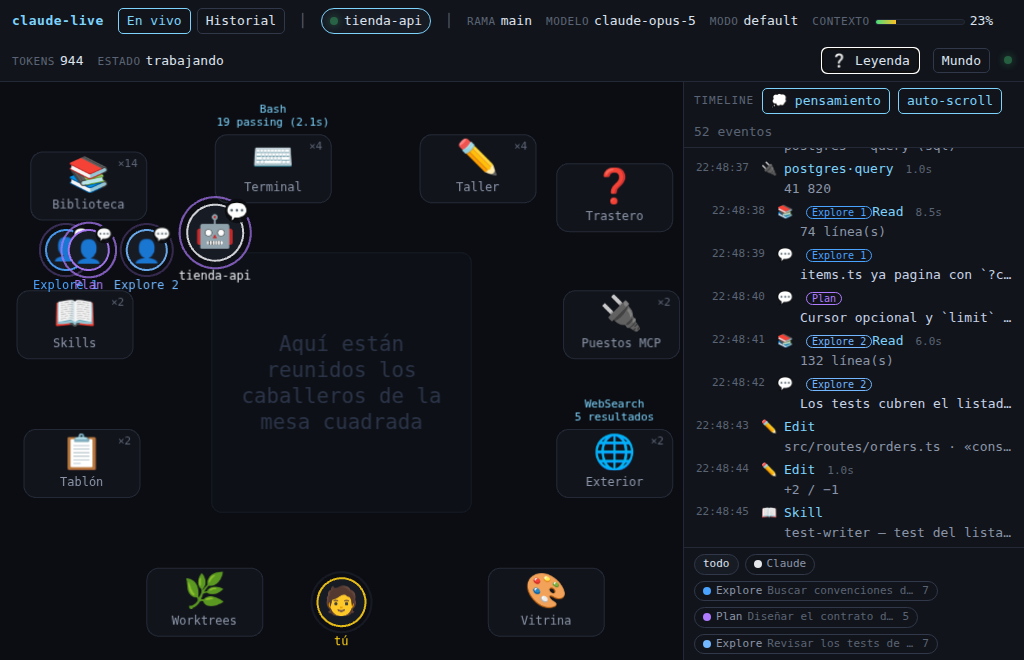
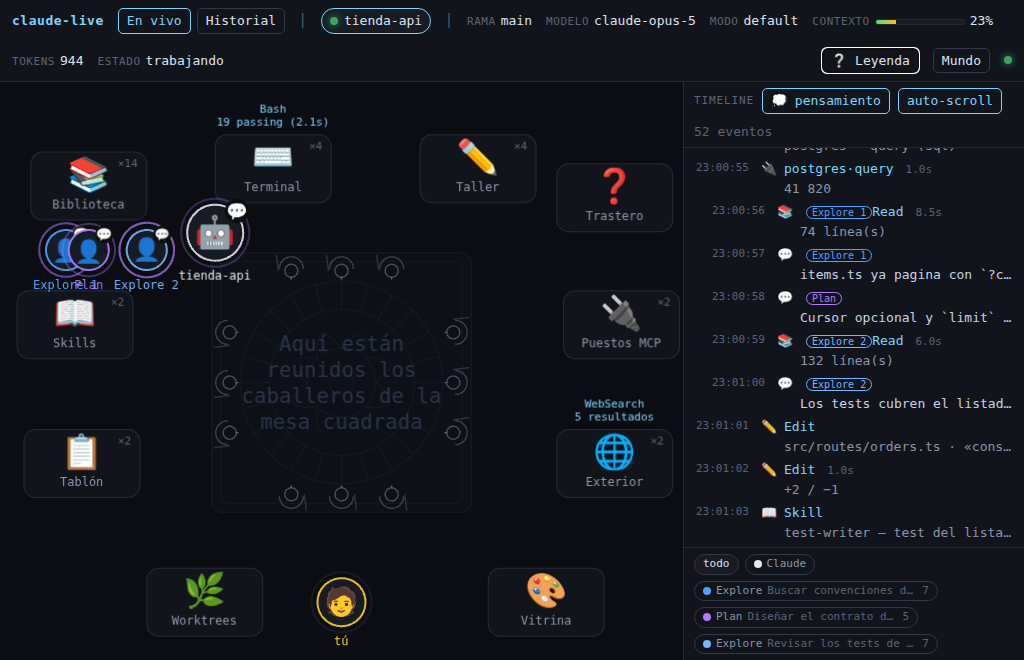
Los caballeros y un rosetón grabado en la mesa cuadrada
Dibujado con el mismo lenguaje del resto del mundo —trazo procedimental, ningún
fichero externo, ninguna licencia ajena—:

- doce caballeros, tres por lado, vistos desde arriba: espalda en semicírculo,
  casco con cimera mirando al tablero y una lanza corta apoyada en el hombro
- un rosetón de grabado antiguo detrás del rótulo: cuatro círculos concéntricos,
  ocho pétalos y veinticuatro radios, al 5 % de opacidad para que sea textura y no
  un dibujo que compita con lo que pasa encima
- un filete interior en el tablero, como el de una mesa labrada

Dos cosas que hubo que arreglar por el camino: `arc` enlaza con una línea desde el
punto anterior, así que sin un `moveTo` propio en cada trazo los caballeros
salían cosidos entre sí con lanzas kilométricas; y el rótulo se añadía al final
del stage, por lo que se pintaba por encima de los actores en vez de debajo. Ahora
el grabado y el rótulo viven en su propia capa de fondo.

Comprobado a 1600×900 y a 1024×660: los caballeros no se apelotonan y el rótulo
se reajusta.

diff --git a/web/src/world/Scene.ts b/web/src/world/Scene.ts
@@ -61,6 +61,7 @@ const BEAST_THRESHOLD = 4
 export class Scene {
   readonly app = new Application()
   /** La Mesa no es una estación con cartel: es la zona central donde viven los actores. */
+  private deskLayer = new Container()
   private deskZone = new Graphics()
   private deskLabel?: Text
   private stationsLayer = new Container()
@@ -87,7 +88,8 @@ export class Scene {
     })
     this.app.ticker.maxFPS = 30
     host.appendChild(this.app.canvas)
-    this.app.stage.addChild(this.deskZone, this.linksLayer, this.stationsLayer, this.actorsLayer)
+    this.deskLayer.addChild(this.deskZone)
+    this.app.stage.addChild(this.deskLayer, this.linksLayer, this.stationsLayer, this.actorsLayer)
 
     // La Mesa se dibuja detrás de todo: un cartel en el centro taparía a los actores y sus
     // burbujas. Es cuadrada y lleva su rótulo grabado, en homenaje a Monty Python.
@@ -104,7 +106,7 @@ export class Scene {
       },
     })
     this.deskLabel.anchor.set(0.5)
-    this.app.stage.addChild(this.deskLabel)
+    this.deskLayer.addChild(this.deskLabel)
 
     for (const meta of STATIONS) {
       if (meta.id === 'desk') continue
@@ -240,6 +242,97 @@ export class Scene {
   }
 
   /**
+   * Rosetón central, al estilo de un grabado antiguo: círculos concéntricos, ocho pétalos y
+   * radios finos. Va en la capa de fondo y con muy poca opacidad, para que sea una textura y
+   * no un dibujo que compita con lo que pasa encima.
+   */
+  private drawEngraving(cx: number, cy: number, radius: number): void {
+    const g = this.deskZone
+    const ink = { width: 1, color: 0x7dd3fc, alpha: 0.05 } as const
+
+    for (const factor of [1, 0.72, 0.34, 0.12]) {
+      g.circle(cx, cy, radius * factor).stroke(ink)
+    }
+
+    // Ocho pétalos: arcos que nacen y mueren en el círculo interior.
+    const petals = 8
+    for (let index = 0; index < petals; index++) {
+      const angle = (index / petals) * Math.PI * 2
+      const inner = radius * 0.34
+      const outer = radius * 0.72
+      const x1 = cx + Math.cos(angle) * inner
+      const y1 = cy + Math.sin(angle) * inner
+      const x2 = cx + Math.cos(angle + Math.PI / petals) * outer
+      const y2 = cy + Math.sin(angle + Math.PI / petals) * outer
+      const x3 = cx + Math.cos(angle + (2 * Math.PI) / petals) * inner
+      const y3 = cy + Math.sin(angle + (2 * Math.PI) / petals) * inner
+      g.moveTo(x1, y1).quadraticCurveTo(x2, y2, x3, y3).stroke(ink)
+    }
+
+    // Radios cortos entre los dos círculos exteriores.
+    const spokes = 24
+    for (let index = 0; index < spokes; index++) {
+      const angle = (index / spokes) * Math.PI * 2
+      g.moveTo(cx + Math.cos(angle) * radius * 0.72, cy + Math.sin(angle) * radius * 0.72)
+        .lineTo(cx + Math.cos(angle) * radius, cy + Math.sin(angle) * radius)
+        .stroke(ink)
+    }
+  }
+
+  /** Caballeros sentados a los cuatro lados, mirando al centro. Tres por lado. */
+  private drawKnights(cx: number, cy: number, half: number): void {
+    const perSide = 3
+    const inset = half - 16
+    const spread = half * 0.58
+
+    for (let side = 0; side < 4; side++) {
+      // 0 arriba, 1 derecha, 2 abajo, 3 izquierda. `toCentre` es hacia dónde miran.
+      const angle = (side * Math.PI) / 2
+      const nx = Math.sin(angle)
+      const ny = -Math.cos(angle)
+      for (let seat = 0; seat < perSide; seat++) {
+        const offset = (seat - (perSide - 1) / 2) * ((spread * 2) / perSide)
+        const x = cx + nx * inset - ny * offset
+        const y = cy + ny * inset + nx * offset
+        this.drawKnight(x, y, Math.atan2(-ny, -nx))
+      }
+    }
+  }
+
+  /**
+   * Un caballero visto desde arriba: la espalda es un semicírculo abierto hacia el centro, con
+   * el casco dentro y una lanza corta apoyada. `toCentre` en radianes.
+   *
+   * Cada trazo empieza con su propio `moveTo`: `arc` enlaza con una línea desde el punto
+   * anterior, así que sin eso los caballeros salían cosidos unos a otros con lanzas kilométricas.
+   */
+  private drawKnight(x: number, y: number, toCentre: number): void {
+    const g = this.deskZone
+    const line = { width: 1.4, color: 0xa8bcd8, alpha: 0.28 } as const
+    const ox = Math.cos(toCentre)
+    const oy = Math.sin(toCentre)
+    const px = -oy
+    const py = ox
+    const back = toCentre + Math.PI
+    const from = back - Math.PI / 2
+    const to = back + Math.PI / 2
+
+    // Espalda y hombros.
+    g.moveTo(x + Math.cos(from) * 12, y + Math.sin(from) * 12)
+      .arc(x, y, 12, from, to)
+      .stroke(line)
+    // Casco y cimera, mirando al tablero.
+    g.circle(x + ox * 2, y + oy * 2, 6.5).stroke({ ...line, alpha: 0.36 })
+    g.moveTo(x + ox * 8, y + oy * 8)
+      .lineTo(x + ox * 11, y + oy * 11)
+      .stroke({ ...line, alpha: 0.36 })
+    // Lanza apoyada en el hombro: corta, o se come la escena.
+    g.moveTo(x + px * 13 + ox * 2, y + py * 13 + oy * 2)
+      .lineTo(x + px * 15 - ox * 14, y + py * 15 - oy * 14)
+      .stroke({ ...line, alpha: 0.2 })
+  }
+
+  /**
    * Recoloca a los actores tras un cambio de tamaño. Las estaciones se mueven con la ventana,
    * así que un actor que conserve su píxel de antes acaba plantado en otro sitio: aquí se
    * recalcula desde su estación y hueco, o desde su fracción del escenario.
@@ -257,17 +350,23 @@ export class Scene {
     }
   }
 
-  /** La mesa cuadrada de la zona central, con su rótulo grabado en el tablero. */
+  /** La mesa cuadrada de la zona central: tablero, grabado y los caballeros sentados. */
   private drawDeskZone(): void {
     const { x, y } = this.positionOf('desk')
     const half = Math.min(this.width * 0.19, this.height * 0.26)
     const size = half * 2
-    this.deskZone
-      .clear()
+    const g = this.deskZone
+    g.clear()
       .roundRect(x - half, y - half, size, size, 10)
       .fill({ color: 0x7dd3fc, alpha: 0.016 })
       .roundRect(x - half, y - half, size, size, 10)
       .stroke({ width: 1, color: 0x1c2230, alpha: 0.55 })
+    // Filete interior, como el de un tablero labrado.
+    g.roundRect(x - half + 9, y - half + 9, size - 18, size - 18, 8)
+      .stroke({ width: 1, color: 0x1a2030, alpha: 0.5 })
+
+    this.drawEngraving(x, y, half * 0.78)
+    this.drawKnights(x, y, half)
 
     if (!this.deskLabel) return
     // El rótulo se encoge con la mesa y desaparece cuando ya no cabe con dignidad.
